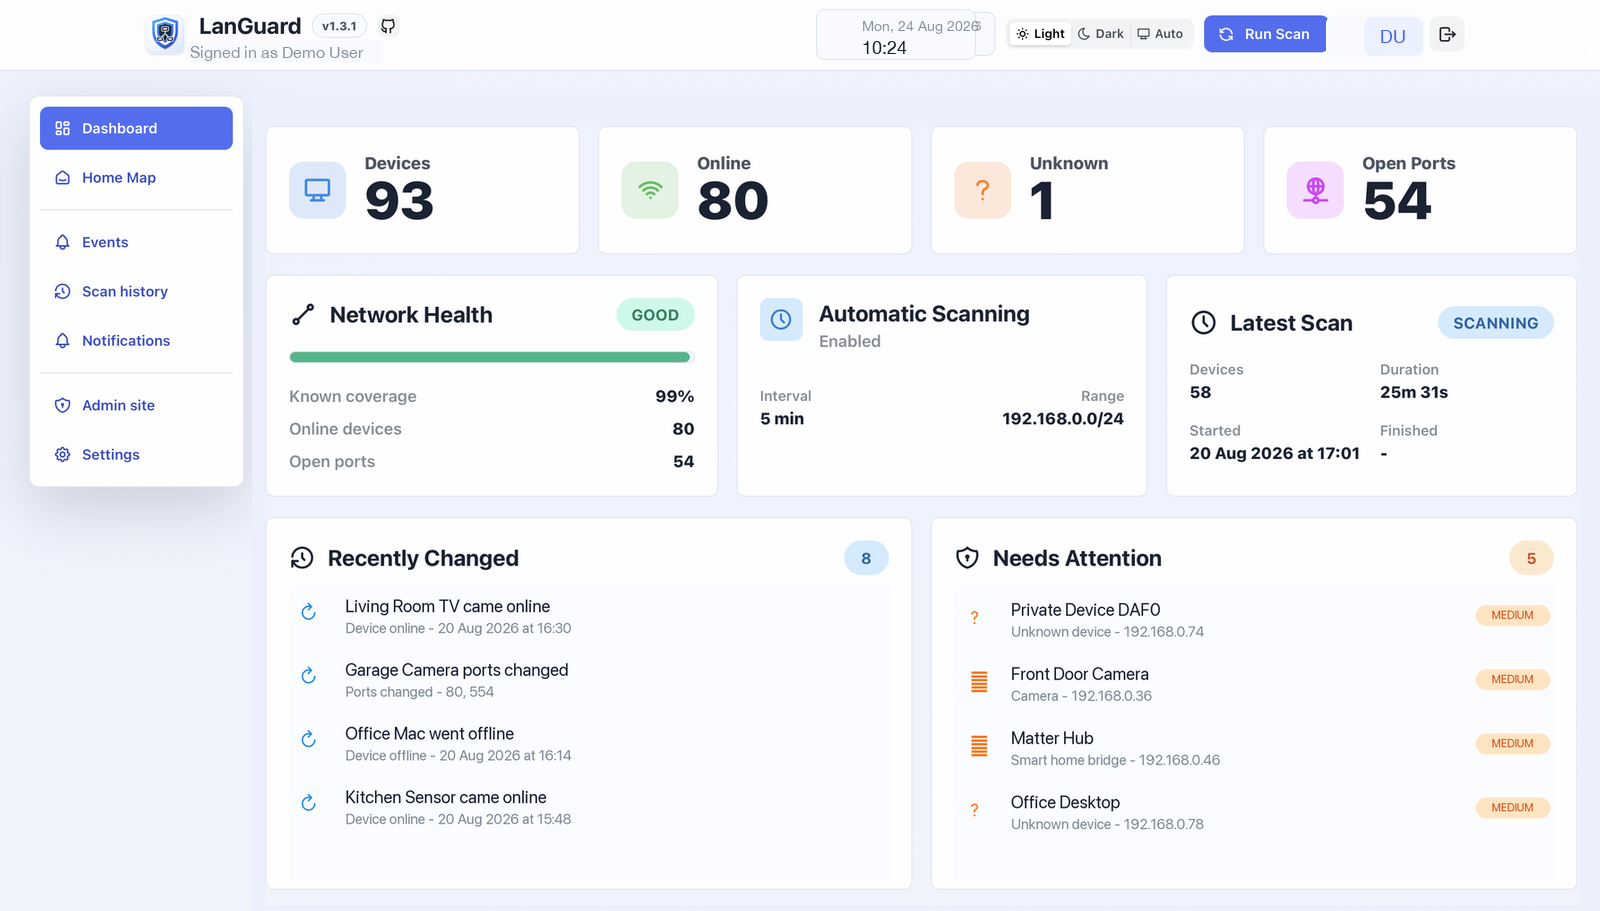
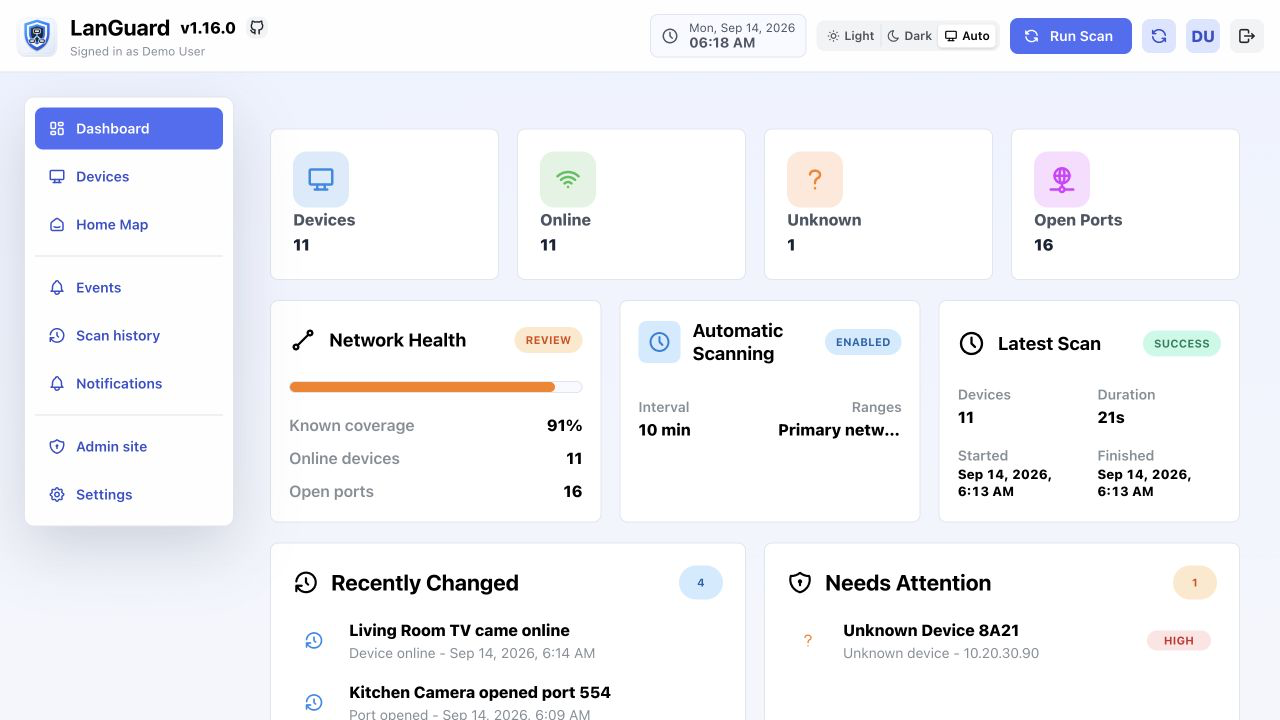
Polish notification channels and visitor map behavior (#161)

diff --git a/frontend/app/page.jsx b/frontend/app/page.jsx
@@ -52,7 +52,9 @@ import {
   IconArrowsSort,
   IconBell,
   IconBlind,
+  IconBrandDiscord,
   IconBrandGithub,
+  IconBrandTelegram,
   IconBulb,
   IconBulbFilled,
   IconCast,
@@ -675,7 +677,7 @@ function homeMapDeviceMatchesFilter(device, filter) {
 }
 
 function buildHomeMapRooms(devices, filter = 'all') {
-  return buildRoomSections(devices).map((section) => ({
+  return buildRoomSections(devices.filter((device) => !device.is_visitor)).map((section) => ({
     ...section,
     visibleDevices: section.devices.filter((device) => homeMapDeviceMatchesFilter(device, filter)),
     attentionCount: homeMapAttentionCount(section.devices),
@@ -4710,7 +4712,10 @@ function SettingsPage({ onSaved }) {
         <Stack className="settings-subsection" gap="sm">
           <Group justify="space-between">
             <Group gap="sm">
-              <Text fw={700}>Discord</Text>
+              <Group gap={6}>
+                <IconBrandDiscord size={18} />
+                <Text fw={700}>Discord</Text>
+              </Group>
               <Switch
                 label="Enabled"
                 checked={discordEnabled}
@@ -4760,7 +4765,10 @@ function SettingsPage({ onSaved }) {
         <Stack className="settings-subsection" gap="sm">
           <Group justify="space-between">
             <Group gap="sm">
-              <Text fw={700}>Telegram</Text>
+              <Group gap={6}>
+                <IconBrandTelegram size={18} />
+                <Text fw={700}>Telegram</Text>
+              </Group>
               <Switch
                 label="Enabled"
                 checked={telegramEnabled}

diff --git a/README.md b/README.md
@@ -202,11 +202,12 @@ The scheduler container runs LanGuard's recurring background work:
 | Failed notification retry | Every 15 minutes | `NOTIFICATION_RETRY_INTERVAL` |
 | Activity cleanup | Every 24 hours | Activity retention in Settings |
 | AdGuard Home sync | Every 5 minutes when enabled | AdGuard Home settings |
+| LanGuard update check | At startup, then every 6 hours when enabled | Version check interval and new-version notification rule in Settings |
 
 The scheduler reloads the network ranges and scan interval before each cycle.
 Changes apply after the current wait or scan completes and do not require a
-container restart. Activity retention and AdGuard Home settings are also read
-from the database during their scheduled loops.
+container restart. Activity retention, AdGuard Home settings, and the version
+check interval are also read from the database during their scheduled loops.
 
 LanGuard can scan up to 16 named IPv4 CIDR ranges with up to 1,024 addresses per
 range in one scheduled run. Add each VLAN or subnet under
